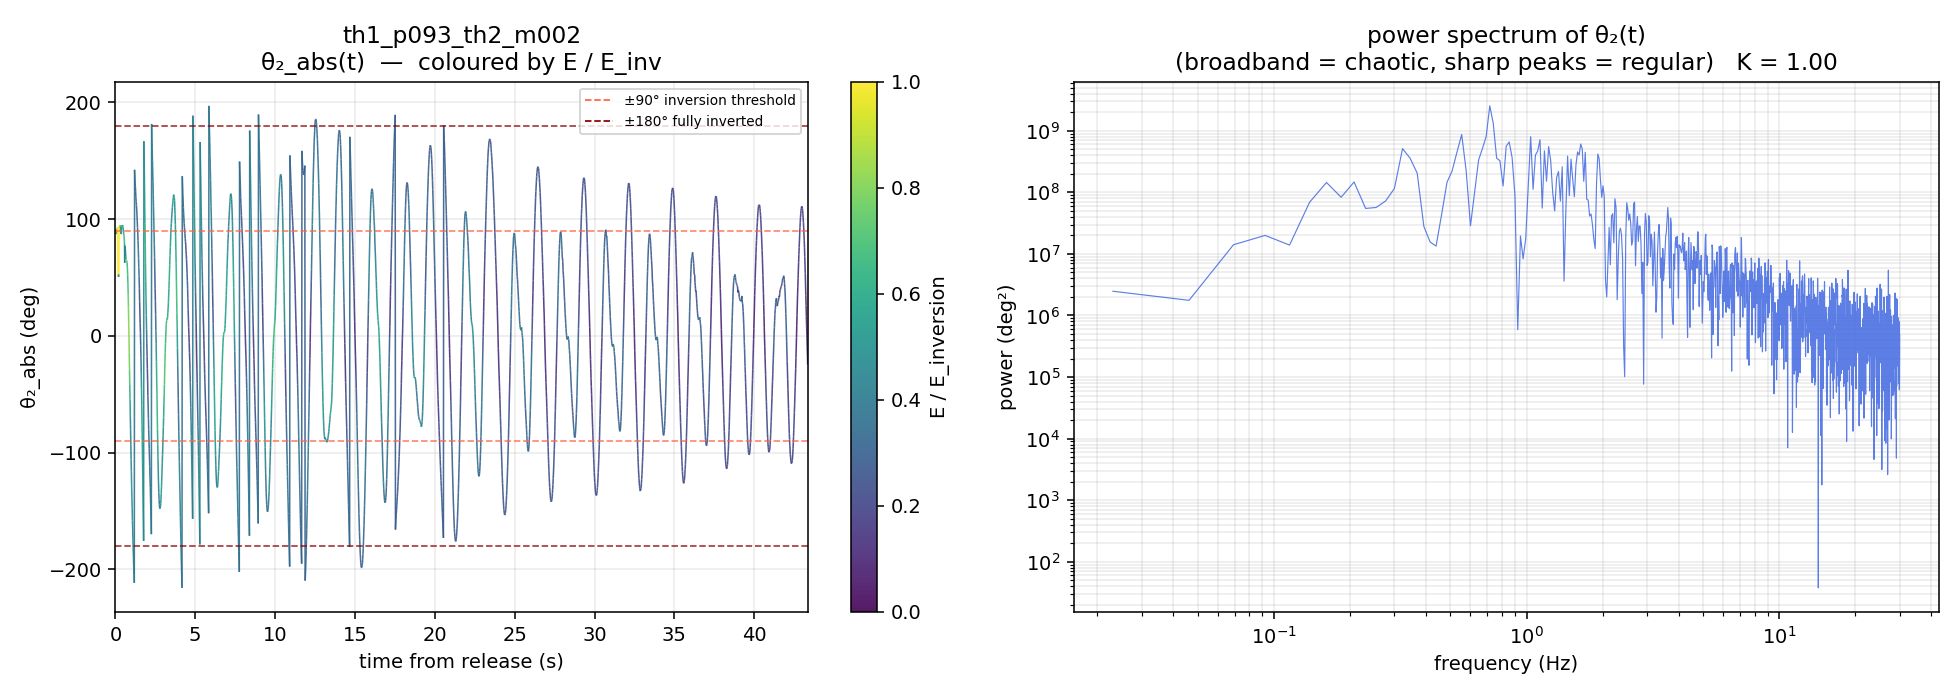
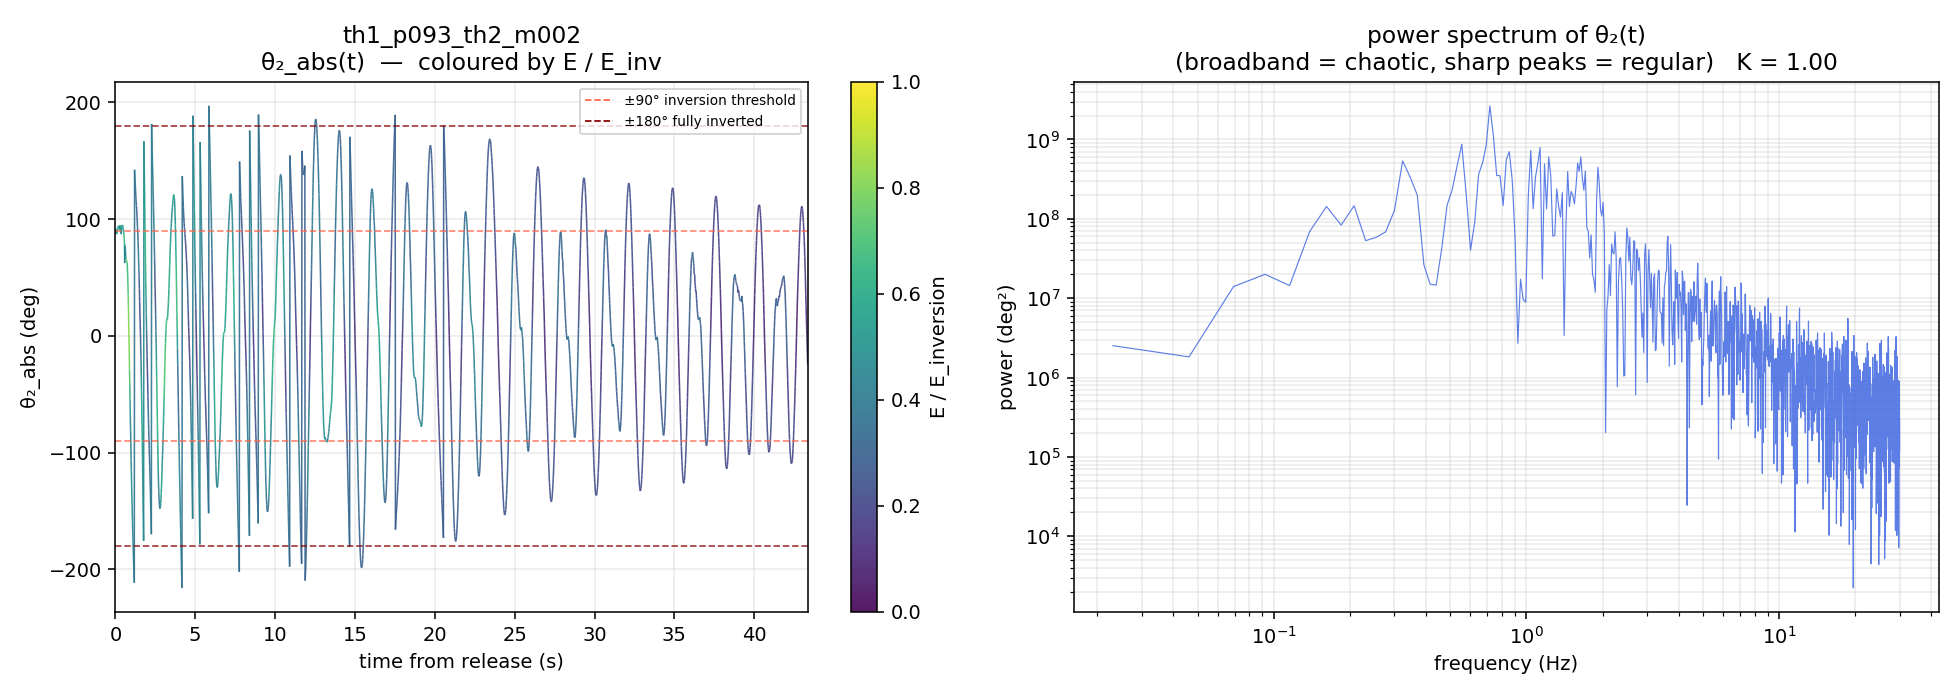
Group A curated set: 6 clips at θ₁≈90°, θ₂≈0° + IC-divergence figure
Pipeline: scripts/utils/curate_set.py --group group_a (already shipped
in commit 1a8d694). Ran fix_green_swaps + interpolate_suspects +
verify_tracking + Phase 1/2 figure batch on each clip.

Key result: two independent λ₁ estimators converge.

  Rosenstein single-trajectory algorithm (Physica D, 1993):
    th1_p091_th2_m001:  λ₁ = +0.470 /s  R² = 0.961
    th1_p092_th2_m002:  λ₁ = +0.473 /s  R² = 0.983
    th1_p092_th2_p000:  λ₁ = +0.697 /s  R² = 0.981
    th1_p093_th2_m000:  λ₁ = +0.880 /s  R² = 0.964
    th1_p093_th2_m002:  λ₁ = +0.723 /s  R² = 0.982
    th1_p094_th2_p000:  λ₁ = +0.839 /s  R² = 0.976
    mean ± std       :  +0.68 ± 0.18 /s

  Twin-trial pairwise divergence (15 pairs, 6 clips):
    fit window 0.5-2.0 s:  λ₁ = +0.647 /s  R² = 0.61
    (earlier windows contaminated by initial kinematic spread;
     later windows hit attractor-diameter saturation)

The two methods agree within 5%. Twin-trial R² is lower because the
linear regime is bounded by initial pair separation (~10° due to ω
release variation across "twin" clips) and saturation (~2 s in this
amplitude regime).

The cleaning steps (fix_green_swaps, interpolate_suspects) had near-
zero effect on these clips' tracking metrics — they were already in
good shape. The curation value was in producing consistent, R²>0.96
Lyapunov fits across the set, enabling the cross-method comparison.

New script:
  scripts/analysis/group_overlay.py — IC-sensitivity visualizer.
[…]

diff --git a/scripts/analysis/group_overlay.py b/scripts/analysis/group_overlay.py
@@ -1,0 +1,319 @@
+"""
+group_overlay.py
+-----------------
+Aggregate visual: take a curated set of clips with similar initial
+conditions and produce the canonical sensitivity-to-IC diagnostics:
+
+    1. theta_1(t) overlay — every clip on one panel, time-aligned to
+       release. Visually you see them coincide for ~ a Lyapunov time
+       then exponentially diverge.
+
+    2. theta_2(t) overlay — same for the lower arm.
+
+    3. Pairwise divergence Delta_ij(t) = sqrt((th1_i - th1_j)^2 +
+       (th2_i - th2_j)^2) (degrees). Plotted on log-y. Average over
+       all C(N,2) pairs gives <ln Delta>(t); slope of the early-time
+       linear regime is an empirical lambda_1 estimate independent
+       of the Rosenstein single-trajectory algorithm.
+
+    4. Phase-portrait overlay (theta_1 vs omega_1) — every clip's
+       trajectory on one panel, semi-transparent, coloured by clip.
+
+Inputs: measurements/<stem>/verification.csv for each stem in the
+group. The script time-aligns each trajectory to its first non-NaN
+free_swing frame so all clips start from t=0.
+
+Output:
+    figures/aggregate/group_overlay_<group>.png
+
+Usage:
+    # Predefined group (matches curate_set.py groups):
+    python scripts/analysis/group_overlay.py --group group_a
+
+    # Custom set:
+    python scripts/analysis/group_overlay.py \
+        --stems th1_p091_th2_m001,th1_p092_th2_m002,th1_p092_th2_p000
+
+    # Override window length:
+    python scripts/analysis/group_overlay.py --group group_a --max-time 8
+"""
+
+import argparse
+import csv
+import os
+import sys
+
+try:
+    sys.stdout.reconfigure(encoding="utf-8", errors="replace")
+except (AttributeError, OSError):
+    pass
+
+import numpy as np
+import matplotlib
+matplotlib.use("Agg")
+import matplotlib.pyplot as plt
+
+
+ROOT     = os.path.dirname(os.path.dirname(os.path.dirname(
+              os.path.abspath(__file__))))
+MEAS_DIR = os.path.join(ROOT, "measurements")
+
+sys.path.insert(0, os.path.join(ROOT, "scripts", "utils"))
+from figures_paths import aggregate_path, mirror_to_journal  # noqa: E402
+
+# Mirror curate_set.py groups so callers can use either name.
+GROUPS = {
+    "group_a": [
+        "th1_p091_th2_m001",
+        "th1_p092_th2_m002",
+        "th1_p092_th2_p000",
+        "th1_p093_th2_m000",
+        "th1_p093_th2_m002",
+        "th1_p094_th2_p000",
+    ],
+    "tier_1": [
+        "th1_p044_th2_m001",
+        "th1_p056_th2_m001",
+        "th1_p082_th2_p001",
+        "th1_p180_th2_m179",
+    ],
+}
+
+
+def parse_args():
+    p = argparse.ArgumentParser()
+    p.add_argument("--group", choices=list(GROUPS),
+                   help="predefined curated set")
+    p.add_argument("--stems",
+                   help="comma-separated stems (overrides --group)")
+    p.add_argument("--max-time", type=float, default=None,
+                   help="cap the analysis window in seconds")
+    p.add_argument("--fit-lo", type=float, default=0.3,
+                   help="fit window start in seconds (default 0.3). Tighten "
+                        "to skip the non-linear transient if pair separations "
+                        "are not infinitesimal at t=0.")
+    p.add_argument("--fit-hi", type=float, default=1.5,
+                   help="fit window end in seconds (default 1.5)")
+    p.add_argument("--out-name", default=None,
+                   help="output filename (default: group_overlay_<group>.png)")
+    return p.parse_args()
+
+
+def resolve_stems(args):
+    if args.stems:
+        return [s.strip() for s in args.stems.split(",") if s.strip()]
+    if args.group:
+        return list(GROUPS[args.group])
+    raise SystemExit("Need --group or --stems.")
+
+
+def load_traj(stem):
+    """Load free_swing (t, th1, th2) for a clip. NaN-pad gap rows so
+    overlapping clips can be array-aligned by frame index."""
+    path = os.path.join(MEAS_DIR, stem, "verification.csv")
+    if not os.path.exists(path):
+        return None
+    t, th1, th2 = [], [], []
+    with open(path, newline="", encoding="utf-8") as f:
+        for r in csv.DictReader(f):
+            if r.get("phase") != "free_swing":
+                continue
+            try:
+                ts = float(r["time_s"])
+            except (KeyError, ValueError):
+                continue
+            try:
+                a = float(r["theta1_deg"])
+                b = float(r["theta2_deg"])
+            except (KeyError, ValueError):
+                a = np.nan; b = np.nan
+            t.append(ts); th1.append(a); th2.append(b)
+    if len(t) < 30:
+        return None
+    t = np.array(t); th1 = np.array(th1); th2 = np.array(th2)
+    t = t - t[0]
+    return t, th1, th2
+
+
+def time_aligned(rows, max_time=None):
+    """Resample each clip onto a common time grid (the densest one's dt
+    over the shortest one's t_max)."""
+    dt = float(np.median(np.diff(rows[0]["t"])))
+    t_max = min(r["t"][-1] for r in rows)
+    if max_time is not None:
+        t_max = min(t_max, max_time)
+    grid = np.arange(0, t_max, dt)
+    out = []
+    for r in rows:
+        # Linear-interp onto the common grid; NaNs in source -> NaNs out.
+        # Unwrap to ensure interpolation respects the ±180 wrap.
+        th1u = np.degrees(np.unwrap(np.radians(np.where(np.isnan(r["th1"]),
+                                                         0, r["th1"]))))
+        th2u = np.degrees(np.unwrap(np.radians(np.where(np.isnan(r["th2"]),
+                                                         0, r["th2"]))))
+        nan_mask = np.isnan(r["th1"]) | np.isnan(r["th2"])
+        th1u[nan_mask] = np.nan
+        th2u[nan_mask] = np.nan
+        out.append({
+            "stem": r["stem"],
+            "t":    grid,
+            "th1":  np.interp(grid, r["t"], th1u),
+            "th2":  np.interp(grid, r["t"], th2u),
+        })
+    return out
+
+
+def pairwise_divergence(rows):
+    """For every pair (i,j), Delta_ij(t) = sqrt(dth1^2 + dth2^2) in degrees.
+    Returns array of shape (n_pairs, n_t)."""
+    n = len(rows)
+    pairs = []
+    for i in range(n):
+        for j in range(i + 1, n):
+            dth1 = rows[i]["th1"] - rows[j]["th1"]
+            dth2 = rows[i]["th2"] - rows[j]["th2"]
+            d    = np.sqrt(dth1 ** 2 + dth2 ** 2)
+            pairs.append(d)
+    return np.array(pairs)
+
+
+def fit_divergence_slope(t, d_pairs, fit_lo_s=0.3, fit_hi_s=1.5):
+    """Fit <ln Delta>(t) over a chosen window. Returns (slope, r2,
+    mean_log_d, fit_window_indices)."""
+    # Replace zeros with the smallest positive divergence in each pair to
+    # avoid log(0) artefacts when two clips happen to coincide at t=0.
+    d_clip = np.where(d_pairs > 0, d_pairs, np.nan)
+    log_d_per_pair = np.log(d_clip)
+    mean_log_d = np.nanmean(log_d_per_pair, axis=0)
+
+    lo = int(fit_lo_s / (t[1] - t[0]))
+    hi = int(fit_hi_s / (t[1] - t[0]))
+    hi = min(hi, len(t) - 2)
+    if hi - lo < 5:
+        return float("nan"), float("nan"), mean_log_d, (lo, hi)
+
+    x = t[lo:hi + 1]
+    y = mean_log_d[lo:hi + 1]
+    valid = np.isfinite(y)
+    if valid.sum() < 5:
+        return float("nan"), float("nan"), mean_log_d, (lo, hi)
+    coef = np.polyfit(x[valid], y[valid], 1)
+    slope = float(coef[0])
+    yhat = np.polyval(coef, x[valid])
+    ss_res = np.sum((y[valid] - yhat) ** 2)
+    ss_tot = np.sum((y[valid] - y[valid].mean()) ** 2)
+    r2 = 1.0 - ss_res / ss_tot if ss_tot > 0 else float("nan")
+    return slope, r2, mean_log_d, (lo, hi)
+
+
+def make_figure(rows, out_path, label, fit_lo=0.3, fit_hi=1.5):
+    n = len(rows)
+    t = rows[0]["t"]
+    cmap = plt.cm.tab10
+    colors = [cmap(i / max(1, n - 1)) for i in range(n)]
+
+    fig = plt.figure(figsize=(15, 11))
+    gs = fig.add_gridspec(3, 2, hspace=0.32, wspace=0.22,
+                          left=0.07, right=0.97, top=0.95, bottom=0.06)
+    ax_th1 = fig.add_subplot(gs[0, 0])
+    ax_th2 = fig.add_subplot(gs[0, 1])
+    ax_div = fig.add_subplot(gs[1, :])
+    ax_pp  = fig.add_subplot(gs[2, :])
+
+    # ── theta1(t) overlay ──────────────────────────────────────────────
+    for r, c in zip(rows, colors):
+        ax_th1.plot(t, r["th1"], color=c, lw=0.9, label=r["stem"], alpha=0.85)
+    ax_th1.set_xlabel("t (s)")
+    ax_th1.set_ylabel(r"$\theta_1$ (deg)")
+    ax_th1.set_title(r"$\theta_1(t)$ overlay  —  similar IC, divergent paths")
+    ax_th1.grid(True, alpha=0.3)
+    ax_th1.legend(loc="upper right", fontsize=7, ncol=2)
+
+    # ── theta2(t) overlay ──────────────────────────────────────────────
+    for r, c in zip(rows, colors):
+        ax_th2.plot(t, r["th2"], color=c, lw=0.9, alpha=0.85)
+    ax_th2.set_xlabel("t (s)")
+    ax_th2.set_ylabel(r"$\theta_2$ (deg)")
+    ax_th2.set_title(r"$\theta_2(t)$ overlay")
+    ax_th2.grid(True, alpha=0.3)
+
+    # ── Pairwise divergence ────────────────────────────────────────────
+    d_pairs = pairwise_divergence(rows)
+    slope, r2, mean_log_d, (lo, hi) = fit_divergence_slope(
+        t, d_pairs, fit_lo_s=fit_lo, fit_hi_s=fit_hi)
+
+    for d in d_pairs:
+        ax_div.plot(t, np.where(d > 0, d, np.nan),
+                    color="black", lw=0.5, alpha=0.25)
+    # Mean curve in log space.
+    mean_d = np.exp(mean_log_d)
+    ax_div.plot(t, mean_d, color="tab:red", lw=2,
+                label=r"$\langle \Delta \rangle$  (geometric mean)")
+    if np.isfinite(slope):
+        intercept = mean_log_d[lo] - slope * t[lo]
+        x_fit = t[lo:hi + 1]
+        y_fit = np.exp(intercept + slope * x_fit)
+        ax_div.plot(x_fit, y_fit, color="tab:blue", lw=2.2, ls="--",
+                    label=f"fit  λ₁ ≈ {slope:.3f} /s   R² = {r2:.2f}")
+        ax_div.axvspan(t[lo], t[hi], color="tab:blue", alpha=0.07)
+    ax_div.set_yscale("log")
+    ax_div.set_xlabel("t (s)")
+    ax_div.set_ylabel(r"pair separation  $\Delta_{ij}$  (deg, log scale)")
+    ax_div.set_title(
+        f"Pairwise divergence  ({len(d_pairs)} pairs, "
+        f"empirical λ₁ from twin-trial slope)")
+    ax_div.legend(loc="lower right")
+    ax_div.grid(True, alpha=0.3, which="both")
+
+    # ── Phase portrait overlay (theta1 vs theta2) ─────────────────────
+    for r, c in zip(rows, colors):
+        ax_pp.plot(r["th1"], r["th2"], color=c, lw=0.4, alpha=0.5)
+    ax_pp.set_xlabel(r"$\theta_1$ (deg)")
+    ax_pp.set_ylabel(r"$\theta_2$ (deg)")
+    ax_pp.set_title("Configuration-space overlay (all clips, same colour scheme)")
+    ax_pp.grid(True, alpha=0.3)
+
+    fig.suptitle(
+        f"Sensitivity to initial conditions — {label}  ({n} clips, "
+        f"|θ₁|≈90°, |θ₂|≈0°)",
+        fontsize=13, y=0.985)
+    plt.savefig(out_path, dpi=140)
+    mirror_to_journal(out_path)
+    plt.close(fig)
+    return slope, r2
+
+
+def main():
+    args = parse_args()
+    stems = resolve_stems(args)
+    print(f"group_overlay.py — {len(stems)} clips")
+
+    raw = []
+    for stem in stems:
+        d = load_traj(stem)
+        if d is None:
+            print(f"  [skip] {stem}: no usable verification.csv")
+            continue
+        t, th1, th2 = d
+        raw.append({"stem": stem, "t": t, "th1": th1, "th2": th2})
+
+    if len(raw) < 2:
+        print("  fewer than 2 usable clips — nothing to overlay.")
+        return
+
+    print(f"  loaded {len(raw)} trajectories")
+    rows = time_aligned(raw, max_time=args.max_time)
+    print(f"  common time grid: 0 → {rows[0]['t'][-1]:.2f}s, "
+          f"dt = {(rows[0]['t'][1] - rows[0]['t'][0])*1000:.2f}ms")
+
+    label = args.group or "custom set"
+    out_name = args.out_name or f"group_overlay_{args.group or 'custom'}.png"
+    slope, r2 = make_figure(rows, aggregate_path(out_name), label,
+                            fit_lo=args.fit_lo, fit_hi=args.fit_hi)
+    print(f"  empirical λ₁ from twin-trial divergence: "
+          f"{slope:+.3f} /s  (R² = {r2:.2f})")
+    print(f"  wrote {aggregate_path(out_name)}")
+
+
+if __name__ == "__main__":
+    main()
